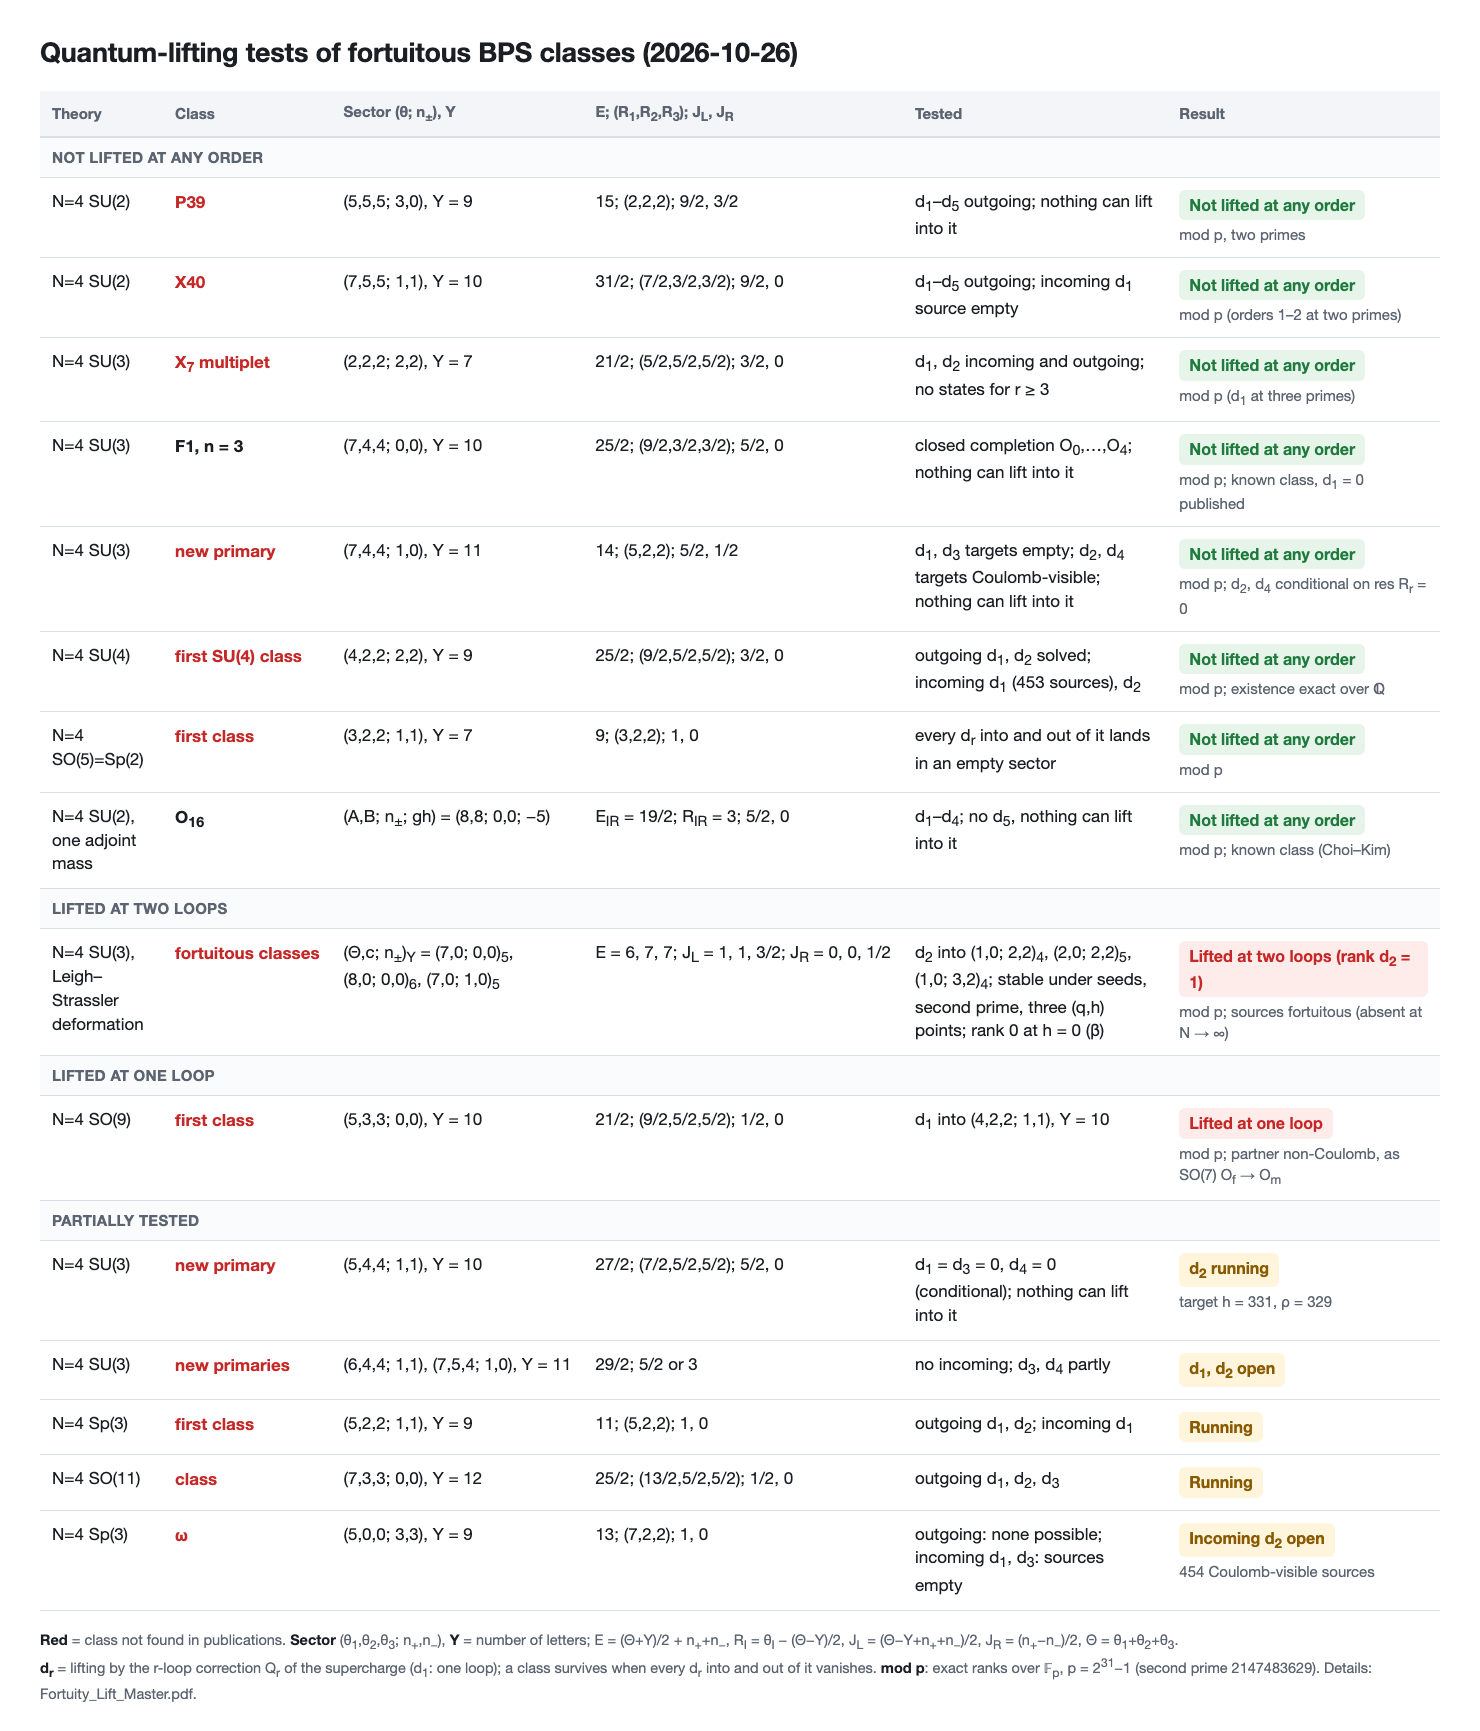
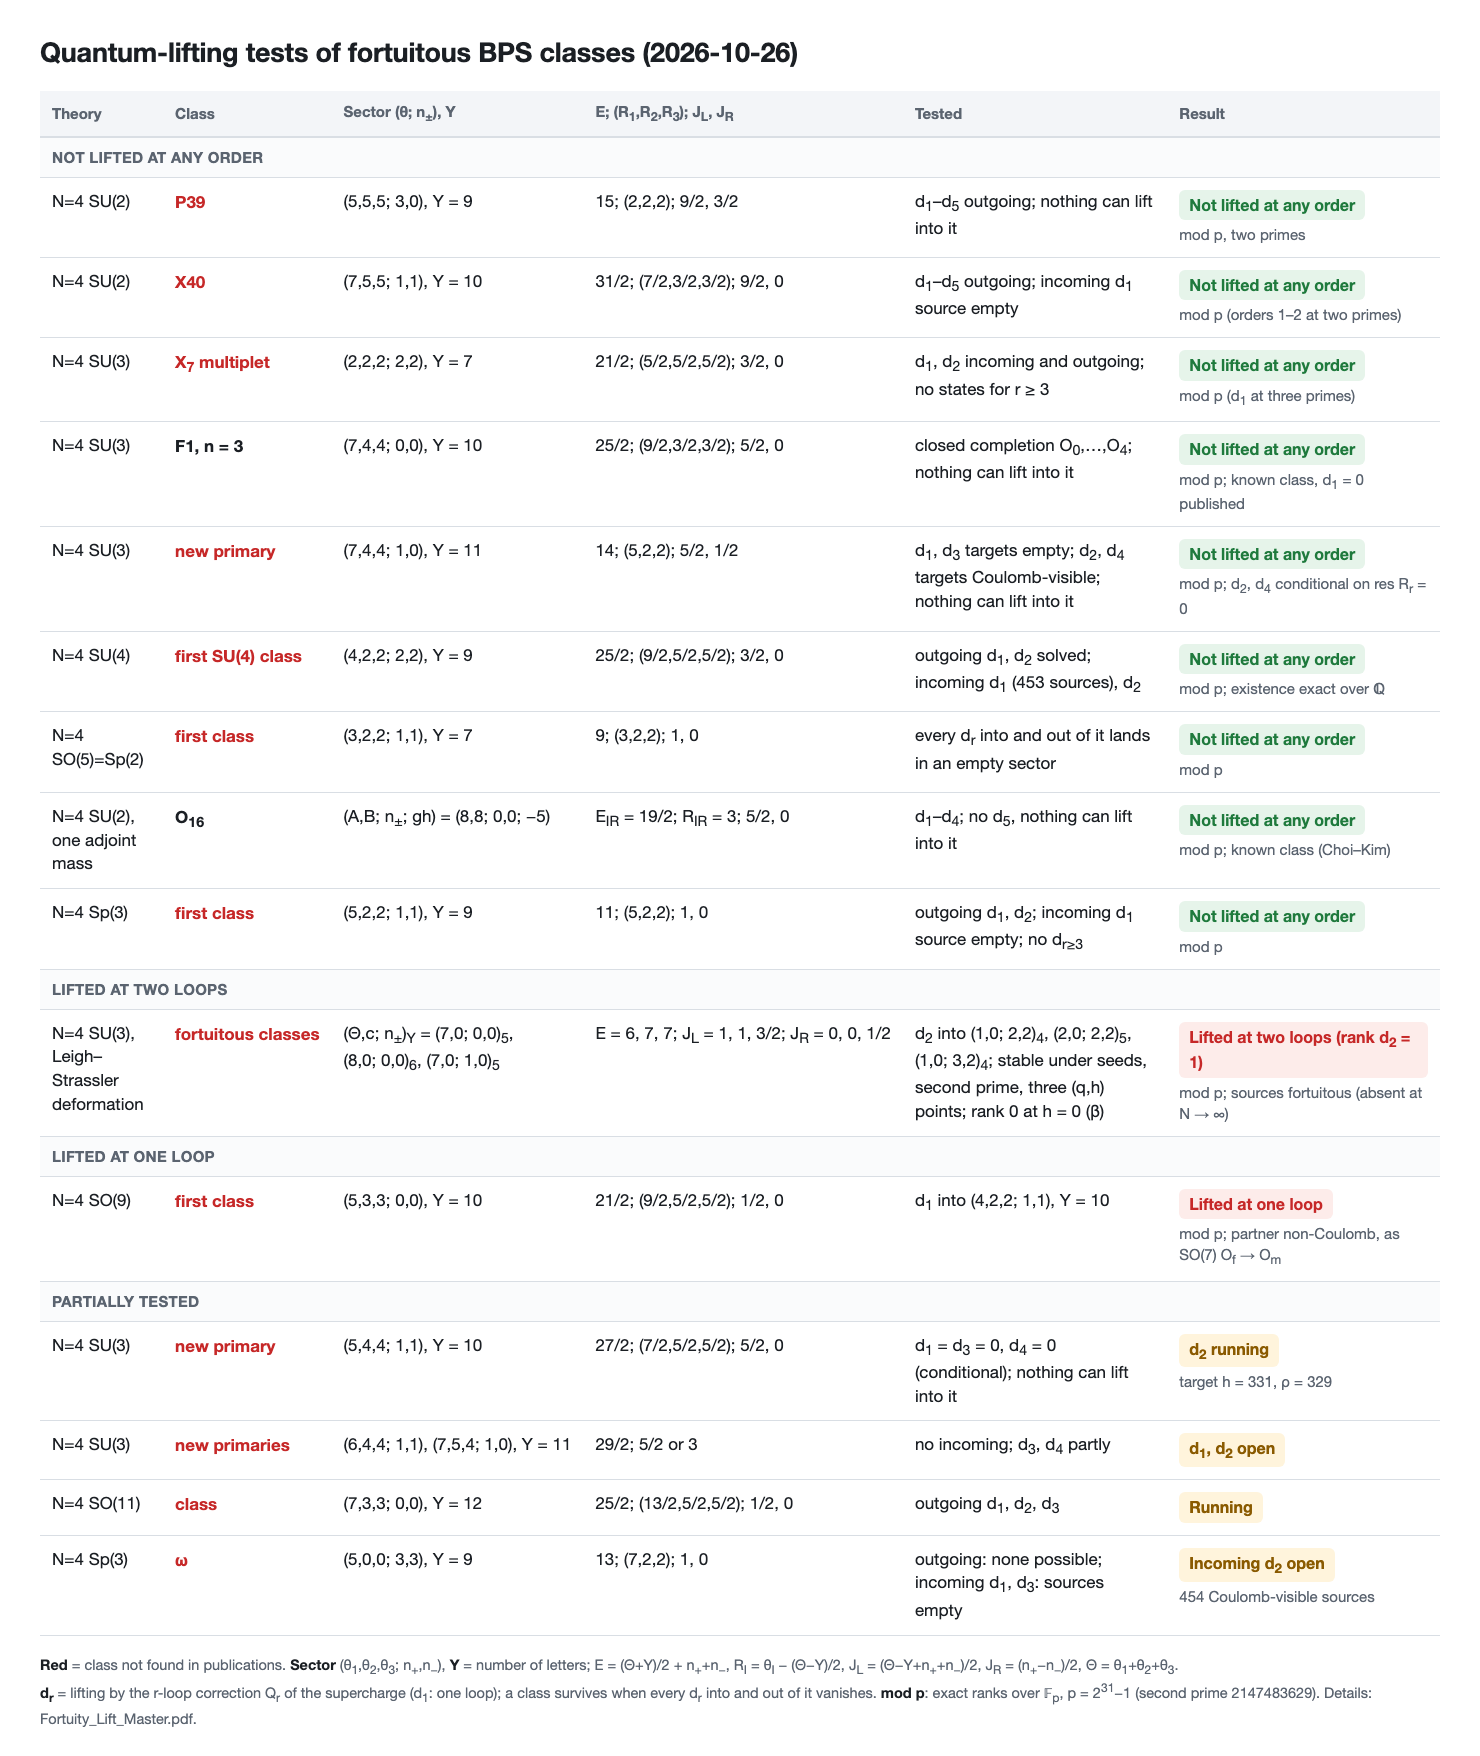
Sp(3) first class (5,2,2;1,1)Y9: d2 = 0, not lifted at any order (mod p)

diff --git a/summary_table.html b/summary_table.html
@@ -89,6 +89,13 @@
   <td><span class="badge ok">Not lifted at any order</span><span class="sub">mod p; known class (Choi–Kim)</span></td>
 </tr>
 
+<tr>
+  <td>N=4 Sp(3)</td><td class="cls new">first class</td>
+  <td class="q">(5,2,2; 1,1), Y = 9</td><td class="q">11; (5,2,2); 1, 0</td>
+  <td>outgoing d<sub>1</sub>, d<sub>2</sub>; incoming d<sub>1</sub> source empty; no d<sub>r≥3</sub></td>
+  <td><span class="badge ok">Not lifted at any order</span><span class="sub">mod p</span></td>
+</tr>
+
 <tr class="sec"><td colspan="6">Lifted at two loops</td></tr>
 <tr>
   <td>N=4 SU(3), Leigh–Strassler deformation</td><td class="cls new">fortuitous classes</td>
@@ -118,12 +125,7 @@
   <td>no incoming; d<sub>3</sub>, d<sub>4</sub> partly</td>
   <td><span class="badge part">d<sub>1</sub>, d<sub>2</sub> open</span></td>
 </tr>
-<tr>
-  <td>N=4 Sp(3)</td><td class="cls new">first class</td>
-  <td class="q">(5,2,2; 1,1), Y = 9</td><td class="q">11; (5,2,2); 1, 0</td>
-  <td>outgoing d<sub>1</sub>, d<sub>2</sub>; incoming d<sub>1</sub></td>
-  <td><span class="badge part">Running</span></td>
-</tr>
+
 <tr>
   <td>N=4 SO(11)</td><td class="cls new">class</td>
   <td class="q">(7,3,3; 0,0), Y = 12</td><td class="q">25/2; (13/2,5/2,5/2); 1/2, 0</td>

diff --git a/README.md b/README.md
@@ -16,7 +16,7 @@ Red = class not found in publications.
 | N=4, SU(3) | E+J_L ≤ 15 | $\color{red}{\text{X7 multiplet}}$, F1 and B1 towers; $\color{red}{\text{new primaries}}$ (5,4,4;1,1) Y10, (7,4,4;1,0) Y11, (6,4,4;1,1) Y11, (7,5,4;1,0) Y11 | X7, F1 (n=3): all orders; (7,4,4;1,0): all orders [cond]; (5,4,4;1,1): d_2 running | §1 |
 | N=4, SU(4) | E+J_L ≤ 27/2 | $\color{red}{\text{first SU(4) class}}$ (4,2,2;2,2) Y9, K=1 over Q | all orders | §1 |
 | N=4, SU(5) … SU(15) | E+J_L ≤ 14, 15, 15, 31/2, 33/2, 17, 18 (N=5…10, 11–15) | none | – | §1 |
-| N=4, SO(2N+1), Sp(N) | E+J_L ≤ 23/2 (SO(5), SO(7), SO(9)); ≤ 12 (Sp(3), Sp(4), Sp(5), SO(11)) | O_0 (SO(3)=Sp(1)); $\color{red}{\text{SO(5)=Sp(2)}}$ (3,2,2;1,1) Y7; O_f (SO(7)); $\color{red}{\text{Sp(3)}}$ (5,2,2;1,1) Y9 and $\color{red}{\omega}$; $\color{red}{\text{SO(9)}}$ (5,3,3;0,0) Y10; $\color{red}{\text{SO(11)}}$ (7,3,3;0,0) Y12 | SO(5) class: all orders; O_f and the SO(9) class: one loop; Sp(3), SO(11): running | §2 |
+| N=4, SO(2N+1), Sp(N) | E+J_L ≤ 23/2 (SO(5), SO(7), SO(9)); ≤ 12 (Sp(3), Sp(4), Sp(5), SO(11)) | O_0 (SO(3)=Sp(1)); $\color{red}{\text{SO(5)=Sp(2)}}$ (3,2,2;1,1) Y7; O_f (SO(7)); $\color{red}{\text{Sp(3)}}$ (5,2,2;1,1) Y9 and $\color{red}{\omega}$; $\color{red}{\text{SO(9)}}$ (5,3,3;0,0) Y10; $\color{red}{\text{SO(11)}}$ (7,3,3;0,0) Y12 | SO(5), Sp(3) classes: all orders; O_f and the SO(9) class: one loop; SO(11): running | §2 |
 | N=2 Z2 quiver, SU(N)×SU(N) | E+J_L ≤ 10 (N=2), ≤ 9 (N=3) | fortuity split open | d_2 = 0 on every candidate pair; E_r(κ) ≅ E_r(1) | §3 |
 | N=2 SCQCD, SU(N), N_f=2N | E+J_L ≤ 12 (N=2), ≤ 9 (N=3) | fortuity split open | SU(2): d_1 = 0; d_2 = 0 on every candidate pair | §4 |
 | N=4 SU(3), β and Leigh–Strassler deformations | E+J_L ≤ 9 | $\color{red}{\text{fortuitous}}$ (Θ,c;n+,n−)_Y = (7,0;0,0)_5, (7,0;1,0)_5 (LS) | $\color{red}{\text{LS: rank }d_2=1}$ at (7,0;0,0)_5, (8,0;0,0)_6, (7,0;1,0)_5; β: d_2 = 0 on 11 pairs | §6 |
